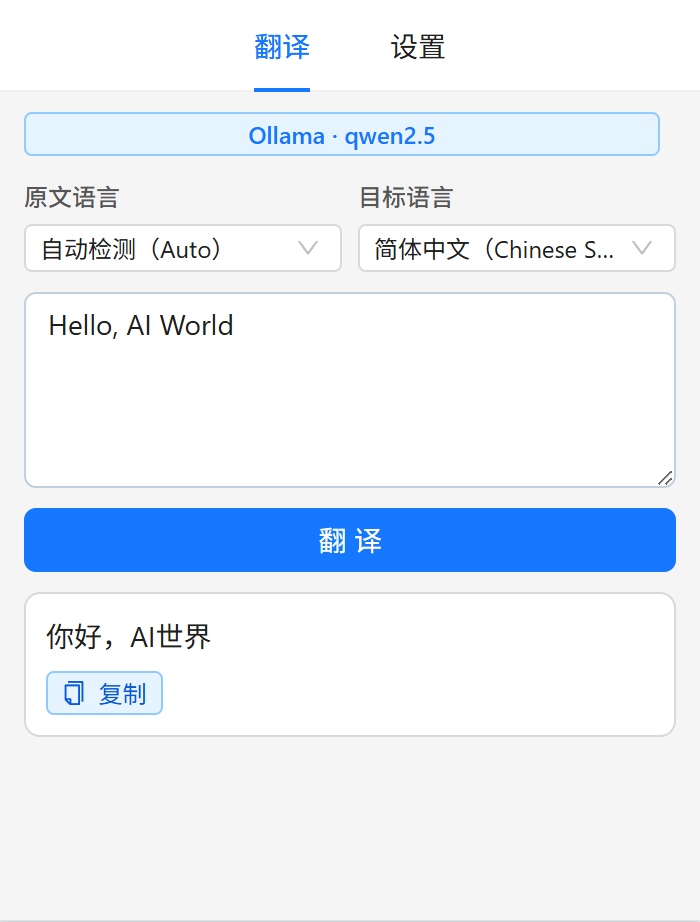
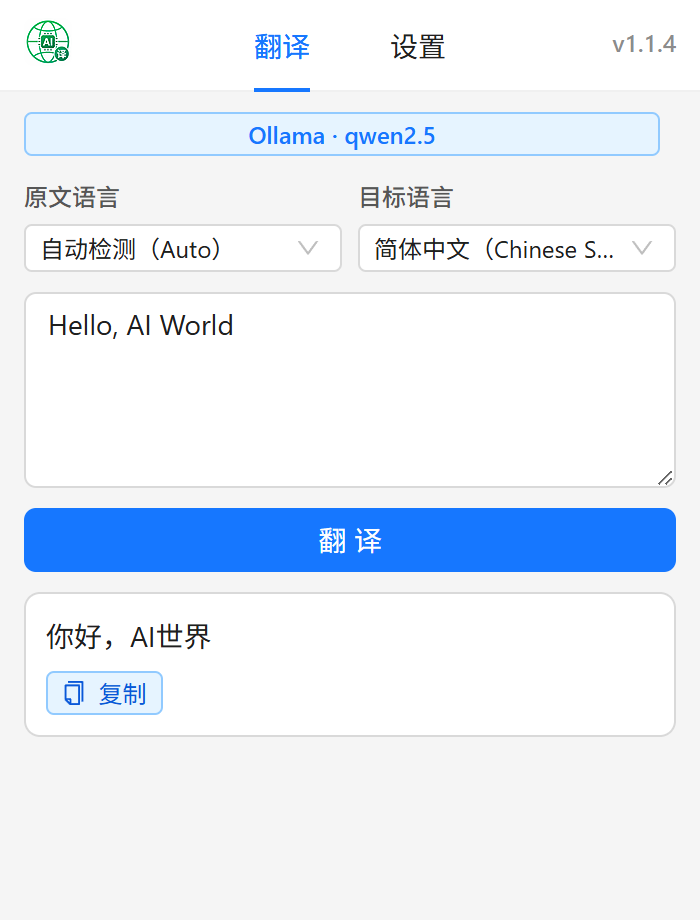
docs: 更新说明文档

diff --git a/README.md b/README.md
@@ -2,9 +2,9 @@
 
 ## 效果预览
 
-| 划词翻译 | 设置面板 |
-|---|---|
-| ![划词翻译效果](docs/translate.png) | ![设置面板效果](docs/setting.png) |
+| 翻译                          | 设置面板 | 划词翻译 |
+|-------------------------------|---|---|
+| ![翻译效果](docs/translate.png) | ![设置面板效果](docs/setting.png) | ![划词翻译效果](docs/translate-popup.png) |
 
 一款基于 Manifest V3 的 Chrome 扩展，使用大语言模型（LLM）实现网页划词翻译，支持多种 AI 提供商。
 